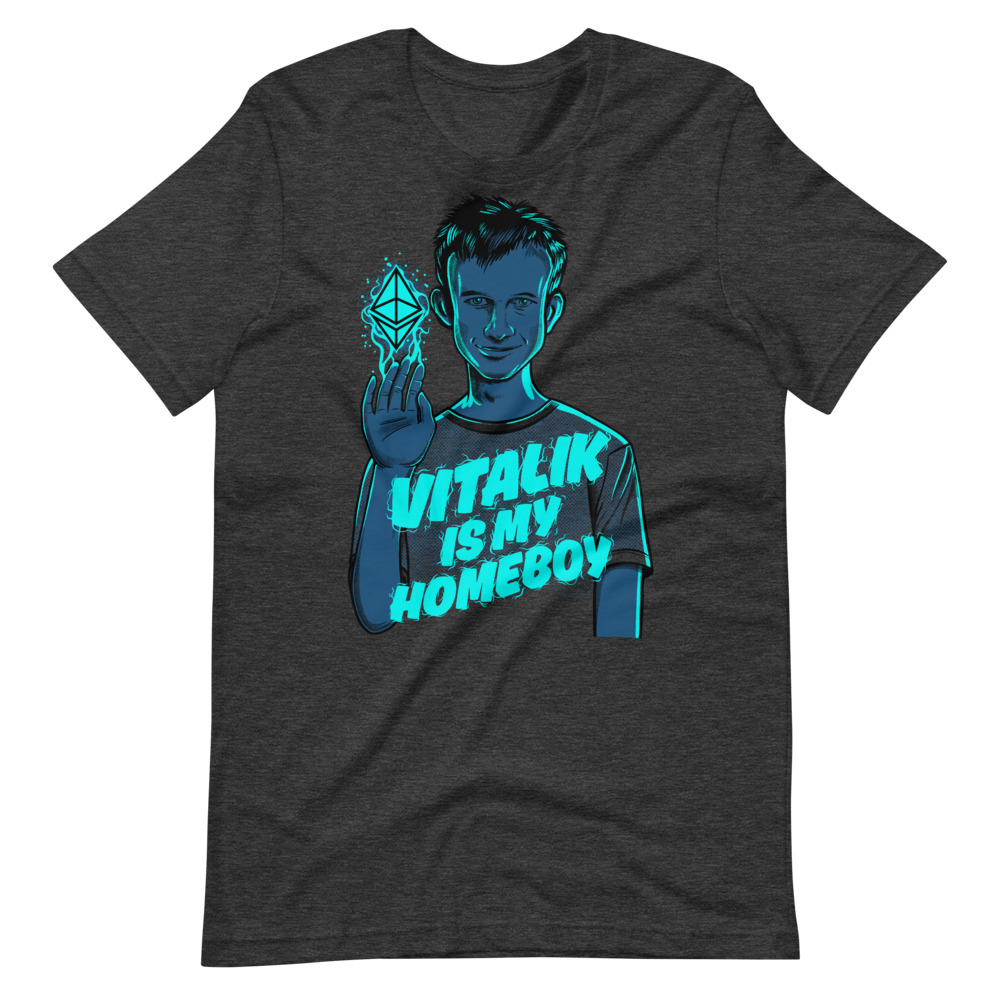
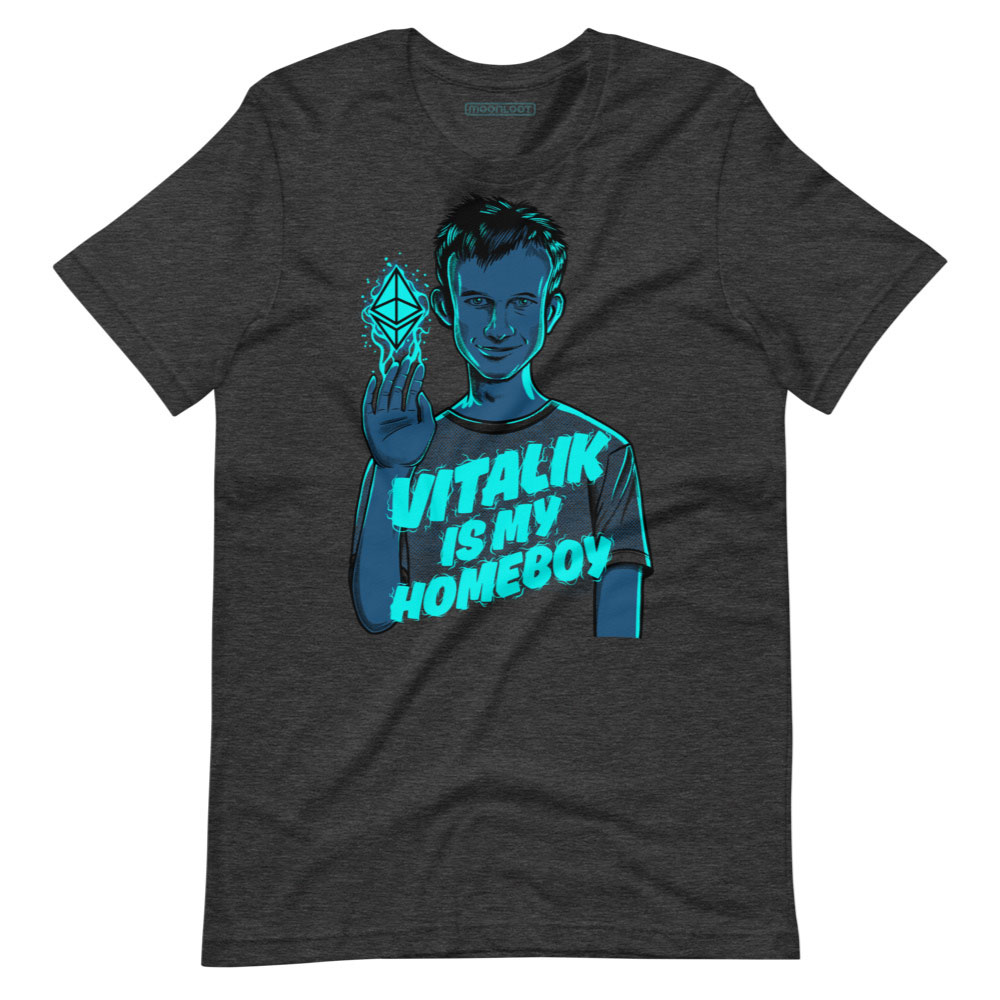
about, disclaimer

diff --git a/index.html b/index.html
@@ -2,7 +2,7 @@
 layout: default
 title: Moonloot • An Ethereum inspired brand, giving back to the Etherverse
 description: Moonloot is an Ethereum inspired brand that gives a portion of sales to Ethereum related Gitcoin Grants voted on by its customers. Enter to win our pre-launch giveaway and score the first issue Vitalik is my homeboy t-shirt and sticker pack!
-image: /assets/images/vitalik-buterin-ethereum-t-shirt-light-blue.jpg
+image: /assets/images/giveaway-promo.jpg
 ---
 <!-- hero -->
 <header id="hero">
@@ -13,7 +13,7 @@ image: /assets/images/vitalik-buterin-ethereum-t-shirt-light-blue.jpg
             <a href="#sign-up" class="btn">Enter to win</a>
         </div>
         <div>
-            <img class="rounded" src="{{'/assets/images/vitalik-buterin-ethereum-t-shirt-light-blue.jpg' | relative_url }}" alt="vitalik buterin t-shirt" />
+            <img class="rounded" src="{{'/assets/images/giveaway-promo.jpg' | relative_url }}" alt="vitalik buterin t-shirt" />
         </div>
     </div>
 </header>
@@ -82,7 +82,7 @@ image: /assets/images/vitalik-buterin-ethereum-t-shirt-light-blue.jpg
         </div>
     </section>
 
-    <!-- how to win -->
+    <!-- how you win -->
     <section id="how" class="container text-center">
         <div class="section-title">
             <h2 class="lg">How you win</h2>
@@ -113,11 +113,17 @@ image: /assets/images/vitalik-buterin-ethereum-t-shirt-light-blue.jpg
                 <p class="lead md">An Ethereum inspired brand, giving back to the Etherverse</p>
             </div>
             <div class="about-text">
+                <h3>Who we are</h3>
                 <p>
-                    Lorem ipsum, dolor sit amet consectetur adipisicing elit. Qui sint fugit dignissimos, illo reiciendis repellendus ipsum vero aperiam voluptatibus, nisi deserunt repellat quia nobis pariatur atque, impedit libero ab ducimus.
+                    Monoloot is a passion project founded by Ethereans seeking to participate in and contribute to the Ethereum ecosystem. We are scratching our own itch for original Ethereum inspired merchandise, while building a channel that gives back to the Etherverse.
                 </p><br>
+                <h3>How we give back</h3>
                 <p>
-                    Lorem ipsum, dolor sit amet consectetur adipisicing elit. Qui sint fugit dignissimos, illo reiciendis repellendus ipsum vero aperiam voluptatibus, nisi deserunt repellat quia nobis pariatur atque, impedit libero ab ducimus.
+                    We donate to Ethereum related Gitcoin grants voted on by our customers. Proceeds from the sale of our products go to our grant treasury, an Ethereum wallet. We curate a list of Gitcoin grants doing meaningful things in the Etherverse. Our customers vote on which grants we support.
+                </p><br>
+                <h3>Why support us</h3>
+                <p>
+                    We promise to provide quality products with the peace of mind knowing that your purchase supports the Ethereum ecosystem. By supporting Moonloot, you're supporting Ethereum, and the future of a decentralized economy.
                 </p>
             </div>
         </div>
@@ -155,6 +161,15 @@ image: /assets/images/vitalik-buterin-ethereum-t-shirt-light-blue.jpg
                 <p>Make sure to tag us <strong>@moonlootco</strong> and use hashtags <strong>#vitalikismyhomeboy</strong> <strong>#ethereum</strong>, just click the button below!</p>
             </div>
             <a href="https://ctt.ac/f53Af" class="btn my-2">Tweet page</a>
+        </div>
+
+        <!-- success -->
+        <div id="success" class="container">
+            <div class="section-title">
+                <h2 class="lg">Success!</h2>
+                <p class="lead md">You've entered to win</p>
+                <p>We'll be announcing the winners over the coming weeks. Make sure to check your spam, add <a href="mailto: ahoy@moonloot.co">ahoy@moonloot.co</a> to your safe senders list, and follow along on twitter!</p>
+            </div>
         </div>
 
     </section>

diff --git a/assets/css/style.css b/assets/css/style.css
@@ -17,6 +17,9 @@
   --dark-blue: #242f46;
   --dark-grey: #3e3c3d;
 
+  /* gradient */
+  --gradient: linear-gradient(135deg, #14054d, #21176a, rgba(55, 53, 123, 1));
+
   /* misc */
   --logo-height: 70px;
 }
@@ -31,6 +34,7 @@
 /* elements */
 body {
   background-color: var(--dark-color);
+  /* background: var(--gradient); */
   font-family: var(--font-stack);
   font-size: 1.25rem;
   line-height: 1.5;
@@ -210,10 +214,6 @@ img {
 }
 
 /* steps */
-#step-3 {
-  margin-bottom: 3rem;
-}
-
 #step-1 p,
 #step-2 p,
 #step-3 p {
@@ -270,6 +270,10 @@ img {
 
 .bg-white {
   background: whitesmoke;
+}
+
+.bg-gradient {
+  background: var(--gradient);
 }
 
 .light-blue {

diff --git a/_includes/footer.html b/_includes/footer.html
@@ -7,8 +7,8 @@
         <nav>
             <ul>
                 <li><a href="https://moonloot.co/#about">About</a></li>
-                <li><a href="https://moonloot.co/privacy-policy">Privacy Policy</a></li>
-                <li><a href="#">FAQ</a></li>
+                <li><a href="https://moonloot.co/privacy-policy" target="_blank">Privacy Policy</a></li>
+                <li><a href="https://moonloot.co/disclaimer" target="_blank">Disclaimer</a></li>
             </ul>
         </nav>
         <div class="social">

diff --git a/disclaimer.md b/disclaimer.md
@@ -1,0 +1,8 @@
+---
+layout: policy
+title: Disclaimer
+---
+
+Moonloot LLC ("Moonloot") is not associated with the Ethereum Foundation, Vitalik Buterin, or any other associated entities or individuals. The Ethereum Foundation does not officially endorse Moonloot, its products, or its work in any way.
+
+Moonloot LLC is sharing and remixing the Ethereum logo under the [Creative Commons](https://creativecommons.org/licenses/by/3.0/deed.en) license (Attribution 3.0 Unported) and gives complete attribution of the Ehtereum logo and brand assets to the [Ethereum Foundation](https://ethereum.org).
